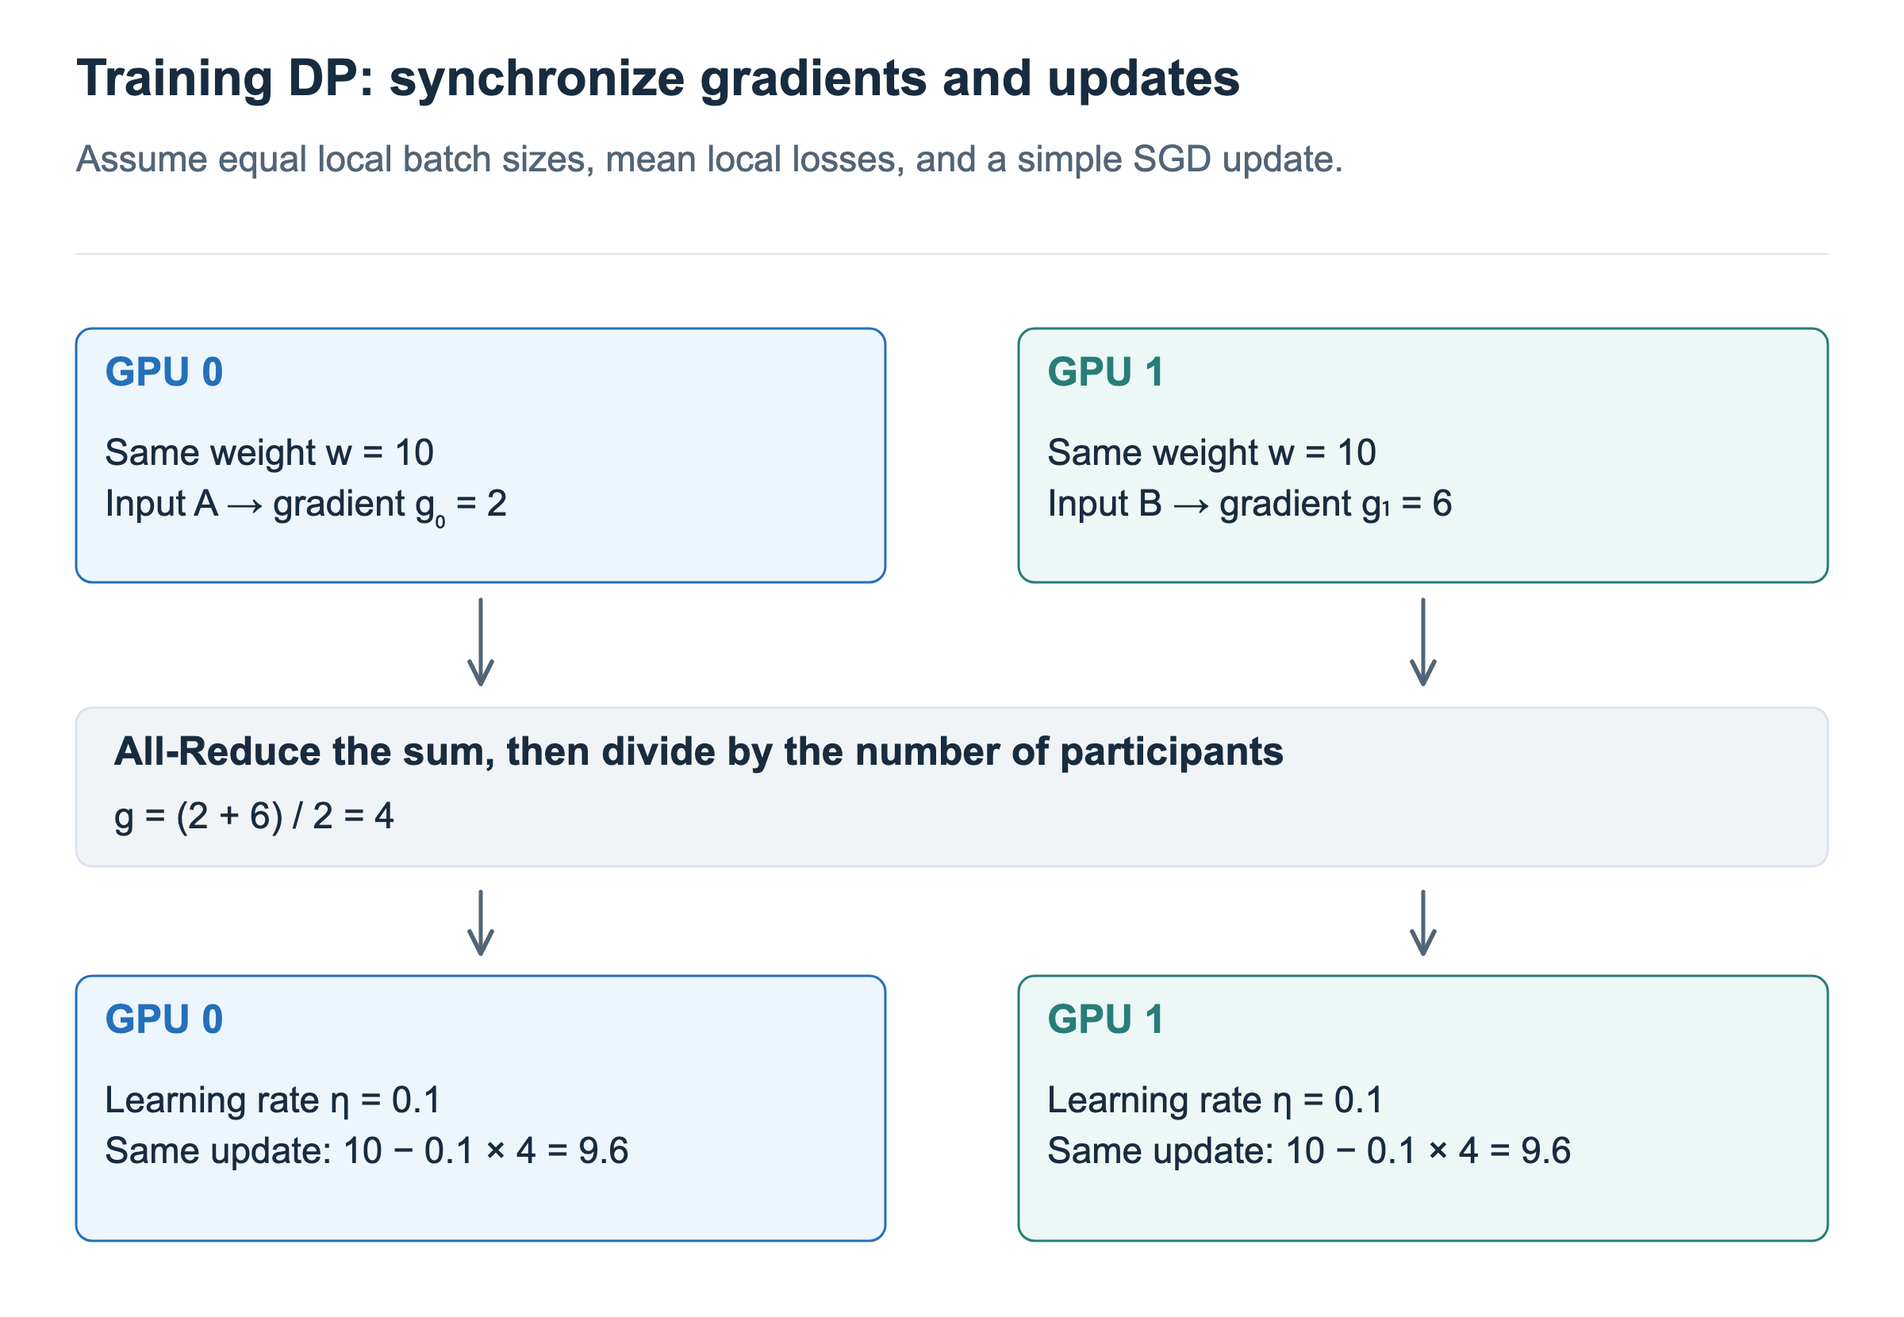
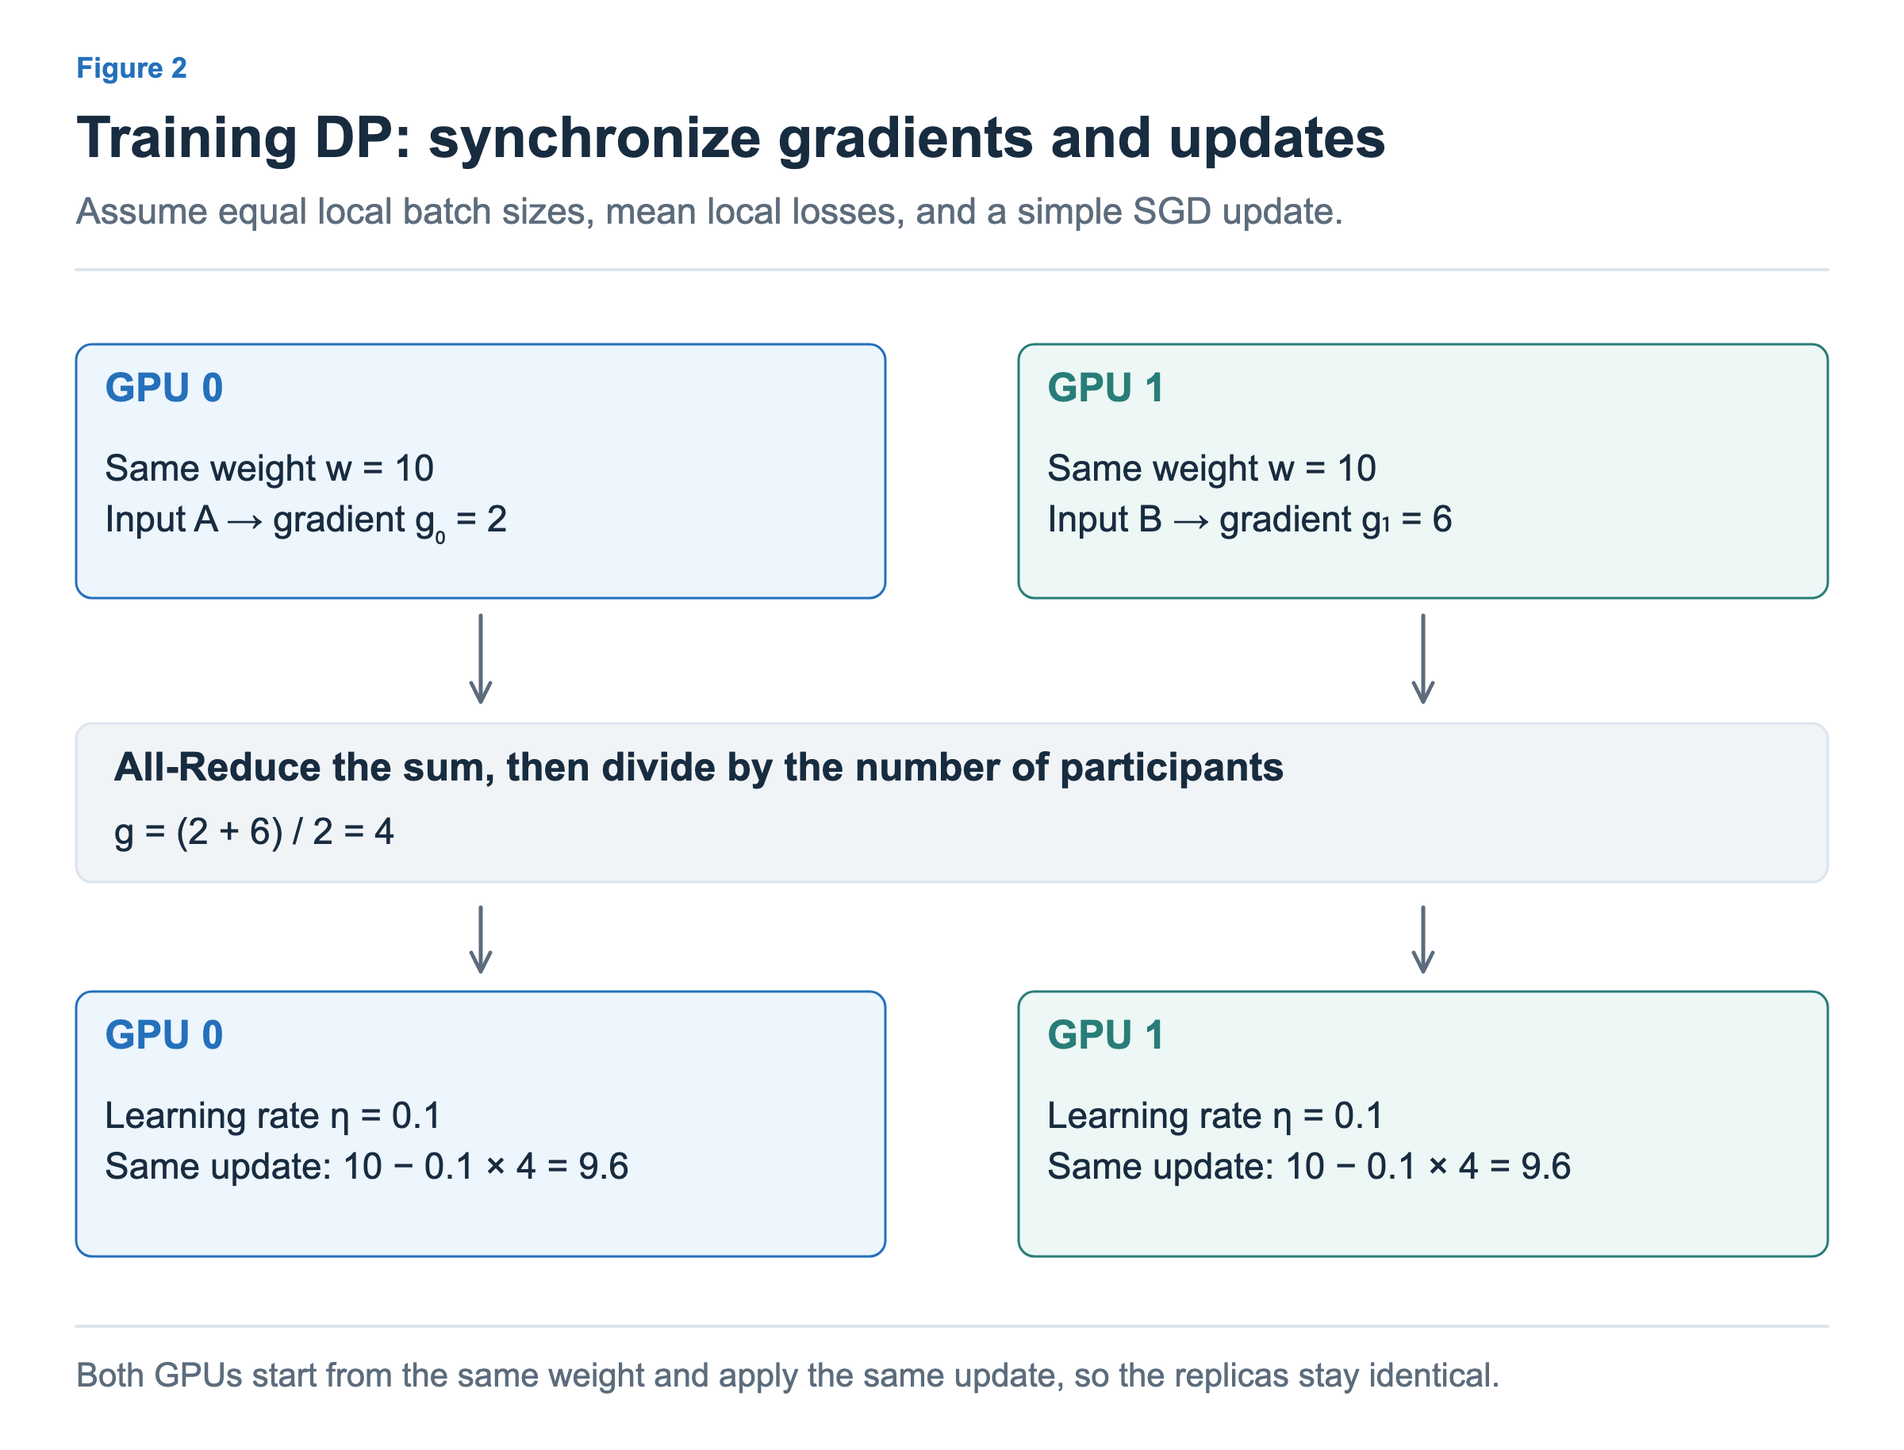
Port data-parallelism figures to the shared visualization module
Figures are regenerated from src/data/figures/data-parallelism with the standard frame
and in-image captions. Figures had no captions; new ko/en captions are drafted from the figures' own notes and the article text (please review).

diff --git a/src/data/figures/data-parallelism/01-replicas.ts b/src/data/figures/data-parallelism/01-replicas.ts
@@ -1,0 +1,65 @@
+import {C,Panel,markerUrl,type FigureSpec,type Locale} from '@llm-systems/viz';
+// Ported from the published SVG with its original geometry; replace parts with shared primitives when editing.
+export default {
+  articleId:"data-parallelism",figureId:"01-replicas",number:"01-replicas",
+  layout:'wide',screens:['desktop'],
+  eyebrow:["그림 1","Figure 1"],
+  title:["DP: 같은 모델, 서로 다른 입력","DP: same model, different inputs"],
+  subtitle:["고정 가중치의 일반적인 dense 모델 추론 예시입니다.","An example of ordinary dense-model inference with fixed weights."],
+  alt:["네 GPU가 모델 W 전체를 각각 보관하며 요청 A부터 D까지 따로 계산합니다.","Each GPU stores full model W and independently processes one of requests A–D."],
+  caption:["나누는 것은 모델이 아니라 입력이므로, 기본 DP만으로는 GPU당 가중치 메모리가 줄지 않습니다.","DP splits inputs, not the model, so basic DP alone does not reduce weight memory per GPU."],
+  sources:[],
+  panels(locale:Locale){
+    const p=new Panel(locale,null,622,1104,[48,196]);
+    p.el('text',{x:48,y:212,fill:C.ink,"font-size":26,"font-weight":700,"text-anchor":"start"},["같은 모델 W를 네 벌 보관","Four copies of the same model W"]);
+    p.el("rect",{x:48,y:249,width:264,height:125,rx:10,fill:C.blueFill,stroke:C.blue,"stroke-width":1.5});
+    p.el('text',{x:66,y:285,fill:C.blue,"font-size":25,"font-weight":700,"text-anchor":"start"},["요청 A","Request A"]);
+    p.el('text',{x:66,y:335,fill:C.ink,"font-size":23,"font-weight":400,"text-anchor":"start"},"");
+    p.el("path",{d:"M180,386 L180,427",stroke:C.muted,"stroke-width":2.5,fill:"none","marker-end":markerUrl(C.muted)});
+    p.el("rect",{x:48,y:439,width:264,height:178,rx:10,fill:C.blueFill,stroke:C.blue,"stroke-width":1.5});
+    p.el('text',{x:66,y:475,fill:C.blue,"font-size":25,"font-weight":700,"text-anchor":"start"},"GPU 0");
+    p.el('text',{x:66,y:525,fill:C.ink,"font-size":23,"font-weight":400,"text-anchor":"start"},["전체 모델 W","Full model W"]);
+    p.el('text',{x:66,y:557.2,fill:C.ink,"font-size":23,"font-weight":400,"text-anchor":"start"},["자기 요청 계산","Own request"]);
+    p.el("path",{d:"M180,630 L180,673",stroke:C.muted,"stroke-width":2.5,fill:"none","marker-end":markerUrl(C.muted)});
+    p.el("rect",{x:48,y:685,width:264,height:125,rx:10,fill:C.blueFill,stroke:C.blue,"stroke-width":1.5});
+    p.el('text',{x:66,y:721,fill:C.blue,"font-size":25,"font-weight":700,"text-anchor":"start"},["결과 A","Result A"]);
+    p.el('text',{x:66,y:771,fill:C.ink,"font-size":23,"font-weight":400,"text-anchor":"start"},"");
+    p.el("rect",{x:328,y:249,width:264,height:125,rx:10,fill:C.tealFill,stroke:C.teal,"stroke-width":1.5});
+    p.el('text',{x:346,y:285,fill:C.teal,"font-size":25,"font-weight":700,"text-anchor":"start"},["요청 B","Request B"]);
+    p.el('text',{x:346,y:335,fill:C.ink,"font-size":23,"font-weight":400,"text-anchor":"start"},"");
+    p.el("path",{d:"M460,386 L460,427",stroke:C.muted,"stroke-width":2.5,fill:"none","marker-end":markerUrl(C.muted)});
+    p.el("rect",{x:328,y:439,width:264,height:178,rx:10,fill:C.tealFill,stroke:C.teal,"stroke-width":1.5});
+    p.el('text',{x:346,y:475,fill:C.teal,"font-size":25,"font-weight":700,"text-anchor":"start"},"GPU 1");
+    p.el('text',{x:346,y:525,fill:C.ink,"font-size":23,"font-weight":400,"text-anchor":"start"},["전체 모델 W","Full model W"]);
+    p.el('text',{x:346,y:557.2,fill:C.ink,"font-size":23,"font-weight":400,"text-anchor":"start"},["자기 요청 계산","Own request"]);
+    p.el("path",{d:"M460,630 L460,673",stroke:C.muted,"stroke-width":2.5,fill:"none","marker-end":markerUrl(C.muted)});
+    p.el("rect",{x:328,y:685,width:264,height:125,rx:10,fill:C.tealFill,stroke:C.teal,"stroke-width":1.5});
+    p.el('text',{x:346,y:721,fill:C.teal,"font-size":25,"font-weight":700,"text-anchor":"start"},["결과 B","Result B"]);
+    p.el('text',{x:346,y:771,fill:C.ink,"font-size":23,"font-weight":400,"text-anchor":"start"},"");
+    p.el("rect",{x:608,y:249,width:264,height:125,rx:10,fill:C.purpleFill,stroke:C.purple,"stroke-width":1.5});
+    p.el('text',{x:626,y:285,fill:C.purple,"font-size":25,"font-weight":700,"text-anchor":"start"},["요청 C","Request C"]);
+    p.el('text',{x:626,y:335,fill:C.ink,"font-size":23,"font-weight":400,"text-anchor":"start"},"");
+    p.el("path",{d:"M740,386 L740,427",stroke:C.muted,"stroke-width":2.5,fill:"none","marker-end":markerUrl(C.muted)});
+    p.el("rect",{x:608,y:439,width:264,height:178,rx:10,fill:C.purpleFill,stroke:C.purple,"stroke-width":1.5});
+    p.el('text',{x:626,y:475,fill:C.purple,"font-size":25,"font-weight":700,"text-anchor":"start"},"GPU 2");
+    p.el('text',{x:626,y:525,fill:C.ink,"font-size":23,"font-weight":400,"text-anchor":"start"},["전체 모델 W","Full model W"]);
+    p.el('text',{x:626,y:557.2,fill:C.ink,"font-size":23,"font-weight":400,"text-anchor":"start"},["자기 요청 계산","Own request"]);
+    p.el("path",{d:"M740,630 L740,673",stroke:C.muted,"stroke-width":2.5,fill:"none","marker-end":markerUrl(C.muted)});
+    p.el("rect",{x:608,y:685,width:264,height:125,rx:10,fill:C.purpleFill,stroke:C.purple,"stroke-width":1.5});
+    p.el('text',{x:626,y:721,fill:C.purple,"font-size":25,"font-weight":700,"text-anchor":"start"},["결과 C","Result C"]);
+    p.el('text',{x:626,y:771,fill:C.ink,"font-size":23,"font-weight":400,"text-anchor":"start"},"");
+    p.el("rect",{x:888,y:249,width:264,height:125,rx:10,fill:C.orangeFill,stroke:C.orange,"stroke-width":1.5});
+    p.el('text',{x:906,y:285,fill:C.orange,"font-size":25,"font-weight":700,"text-anchor":"start"},["요청 D","Request D"]);
+    p.el('text',{x:906,y:335,fill:C.ink,"font-size":23,"font-weight":400,"text-anchor":"start"},"");
+    p.el("path",{d:"M1020,386 L1020,427",stroke:C.muted,"stroke-width":2.5,fill:"none","marker-end":markerUrl(C.muted)});
+    p.el("rect",{x:888,y:439,width:264,height:178,rx:10,fill:C.orangeFill,stroke:C.orange,"stroke-width":1.5});
+    p.el('text',{x:906,y:475,fill:C.orange,"font-size":25,"font-weight":700,"text-anchor":"start"},"GPU 3");
+    p.el('text',{x:906,y:525,fill:C.ink,"font-size":23,"font-weight":400,"text-anchor":"start"},["전체 모델 W","Full model W"]);
+    p.el('text',{x:906,y:557.2,fill:C.ink,"font-size":23,"font-weight":400,"text-anchor":"start"},["자기 요청 계산","Own request"]);
+    p.el("path",{d:"M1020,630 L1020,673",stroke:C.muted,"stroke-width":2.5,fill:"none","marker-end":markerUrl(C.muted)});
+    p.el("rect",{x:888,y:685,width:264,height:125,rx:10,fill:C.orangeFill,stroke:C.orange,"stroke-width":1.5});
+    p.el('text',{x:906,y:721,fill:C.orange,"font-size":25,"font-weight":700,"text-anchor":"start"},["결과 D","Result D"]);
+    p.el('text',{x:906,y:771,fill:C.ink,"font-size":23,"font-weight":400,"text-anchor":"start"},"");
+    return [p];
+  },
+} satisfies FigureSpec;

diff --git a/src/data/figures/data-parallelism/03-throughput.ts b/src/data/figures/data-parallelism/03-throughput.ts
@@ -1,0 +1,60 @@
+import {C,Panel,type FigureSpec,type Locale} from '@llm-systems/viz';
+// Ported from the published SVG with its original geometry; replace parts with shared primitives when editing.
+export default {
+  articleId:"data-parallelism",figureId:"03-throughput",number:"03-throughput",
+  layout:'wide',screens:['desktop'],
+  eyebrow:["그림 3","Figure 3"],
+  title:["실행 시간과 처리량을 구별하기","Distinguish execution time from throughput"],
+  subtitle:["네 요청이 동시에 도착하고, 요청 간 간섭과 분산 비용은 생략한 일정입니다.","All four requests arrive together; interference and dispatch costs are omitted."],
+  alt:["GPU 하나는 네 요청을 네 슬롯에 처리하고 두 GPU는 두 슬롯에 처리하지만 개별 요청의 실행은 한 슬롯입니다.","One GPU finishes in four slots; two GPUs finish in two, while each request executes for one slot."],
+  caption:["칸은 설명용 시간 단위이며 실제 실행 시간이 아닙니다.","Slots are illustrative time units, not actual execution times."],
+  sources:[],
+  panels(locale:Locale){
+    const p=new Panel(locale,null,574,1104,[48,196]);
+    p.el('text',{x:48,y:211,fill:C.ink,"font-size":25,"font-weight":700,"text-anchor":"start"},["한 요청의 실행에 1칸이 걸린다고 가정","Assume each request takes one time slot"]);
+    p.el("rect",{x:48,y:254,width:214.8,height:58,rx:10,fill:C.indigoFill,stroke:C.line,"stroke-width":1.5});
+    p.el('text',{x:62,y:291,fill:C.ink,"font-size":23,"font-weight":700,"text-anchor":"start"},["배치","Deployment"]);
+    p.el("rect",{x:268.8,y:254,width:214.8,height:58,rx:10,fill:C.indigoFill,stroke:C.line,"stroke-width":1.5});
+    p.el('text',{x:282.8,y:291,fill:C.ink,"font-size":23,"font-weight":700,"text-anchor":"start"},["시간 1","Slot 1"]);
+    p.el("rect",{x:489.6,y:254,width:214.8,height:58,rx:10,fill:C.indigoFill,stroke:C.line,"stroke-width":1.5});
+    p.el('text',{x:503.6,y:291,fill:C.ink,"font-size":23,"font-weight":700,"text-anchor":"start"},["시간 2","Slot 2"]);
+    p.el("rect",{x:710.4000000000001,y:254,width:214.8,height:58,rx:10,fill:C.indigoFill,stroke:C.line,"stroke-width":1.5});
+    p.el('text',{x:724.4000000000001,y:291,fill:C.ink,"font-size":23,"font-weight":700,"text-anchor":"start"},["시간 3","Slot 3"]);
+    p.el("rect",{x:931.2,y:254,width:214.8,height:58,rx:10,fill:C.indigoFill,stroke:C.line,"stroke-width":1.5});
+    p.el('text',{x:945.2,y:291,fill:C.ink,"font-size":23,"font-weight":700,"text-anchor":"start"},["시간 4","Slot 4"]);
+    p.el("rect",{x:48,y:320,width:214.8,height:92,rx:10,fill:C.surface,stroke:C.line,"stroke-width":1.5});
+    p.el('text',{x:62,y:354,fill:C.ink,"font-size":22,"font-weight":400,"text-anchor":"start"},"1 GPU");
+    p.el("rect",{x:268.8,y:320,width:214.8,height:92,rx:10,fill:C.blueFill,stroke:C.line,"stroke-width":1.5});
+    p.el('text',{x:282.8,y:354,fill:C.ink,"font-size":22,"font-weight":400,"text-anchor":"start"},"A");
+    p.el("rect",{x:489.6,y:320,width:214.8,height:92,rx:10,fill:C.tealFill,stroke:C.line,"stroke-width":1.5});
+    p.el('text',{x:503.6,y:354,fill:C.ink,"font-size":22,"font-weight":400,"text-anchor":"start"},"B");
+    p.el("rect",{x:710.4000000000001,y:320,width:214.8,height:92,rx:10,fill:C.purpleFill,stroke:C.line,"stroke-width":1.5});
+    p.el('text',{x:724.4000000000001,y:354,fill:C.ink,"font-size":22,"font-weight":400,"text-anchor":"start"},"C");
+    p.el("rect",{x:931.2,y:320,width:214.8,height:92,rx:10,fill:C.orangeFill,stroke:C.line,"stroke-width":1.5});
+    p.el('text',{x:945.2,y:354,fill:C.ink,"font-size":22,"font-weight":400,"text-anchor":"start"},"D");
+    p.el("rect",{x:48,y:420,width:214.8,height:92,rx:10,fill:C.surface,stroke:C.line,"stroke-width":1.5});
+    p.el('text',{x:62,y:454,fill:C.ink,"font-size":22,"font-weight":400,"text-anchor":"start"},"2 GPUs · GPU 0");
+    p.el("rect",{x:268.8,y:420,width:214.8,height:92,rx:10,fill:C.blueFill,stroke:C.line,"stroke-width":1.5});
+    p.el('text',{x:282.8,y:454,fill:C.ink,"font-size":22,"font-weight":400,"text-anchor":"start"},"A");
+    p.el("rect",{x:489.6,y:420,width:214.8,height:92,rx:10,fill:C.tealFill,stroke:C.line,"stroke-width":1.5});
+    p.el('text',{x:503.6,y:454,fill:C.ink,"font-size":22,"font-weight":400,"text-anchor":"start"},"C");
+    p.el("rect",{x:710.4000000000001,y:420,width:214.8,height:92,rx:10,fill:C.purpleFill,stroke:C.line,"stroke-width":1.5});
+    p.el('text',{x:724.4000000000001,y:454,fill:C.ink,"font-size":22,"font-weight":400,"text-anchor":"start"},"—");
+    p.el("rect",{x:931.2,y:420,width:214.8,height:92,rx:10,fill:C.orangeFill,stroke:C.line,"stroke-width":1.5});
+    p.el('text',{x:945.2,y:454,fill:C.ink,"font-size":22,"font-weight":400,"text-anchor":"start"},"—");
+    p.el("rect",{x:48,y:520,width:214.8,height:92,rx:10,fill:C.surface,stroke:C.line,"stroke-width":1.5});
+    p.el('text',{x:62,y:554,fill:C.ink,"font-size":22,"font-weight":400,"text-anchor":"start"},"2 GPUs · GPU 1");
+    p.el("rect",{x:268.8,y:520,width:214.8,height:92,rx:10,fill:C.blueFill,stroke:C.line,"stroke-width":1.5});
+    p.el('text',{x:282.8,y:554,fill:C.ink,"font-size":22,"font-weight":400,"text-anchor":"start"},"B");
+    p.el("rect",{x:489.6,y:520,width:214.8,height:92,rx:10,fill:C.tealFill,stroke:C.line,"stroke-width":1.5});
+    p.el('text',{x:503.6,y:554,fill:C.ink,"font-size":22,"font-weight":400,"text-anchor":"start"},"D");
+    p.el("rect",{x:710.4000000000001,y:520,width:214.8,height:92,rx:10,fill:C.purpleFill,stroke:C.line,"stroke-width":1.5});
+    p.el('text',{x:724.4000000000001,y:554,fill:C.ink,"font-size":22,"font-weight":400,"text-anchor":"start"},"—");
+    p.el("rect",{x:931.2,y:520,width:214.8,height:92,rx:10,fill:C.orangeFill,stroke:C.line,"stroke-width":1.5});
+    p.el('text',{x:945.2,y:554,fill:C.ink,"font-size":22,"font-weight":400,"text-anchor":"start"},"—");
+    p.el("rect",{x:48,y:662,width:1104,height:100,rx:10,fill:C.grayFill,stroke:C.line,"stroke-width":1.5});
+    p.el('text',{x:72,y:698,fill:C.ink,"font-size":25,"font-weight":700,"text-anchor":"start"},["전체 네 요청의 완료: 4칸 → 2칸","Completion of all four requests: 4 slots → 2 slots"]);
+    p.el('text',{x:72,y:738,fill:C.ink,"font-size":23,"font-weight":400,"text-anchor":"start"},["요청 하나의 실행은 여전히 1칸입니다. 대기 시간은 줄어들 수 있습니다.","Each request still executes for one slot; time spent in the queue can shrink."]);
+    return [p];
+  },
+} satisfies FigureSpec;

diff --git a/src/data/figures/data-parallelism/02-gradients.ts b/src/data/figures/data-parallelism/02-gradients.ts
@@ -1,0 +1,39 @@
+import {C,Panel,markerUrl,type FigureSpec,type Locale} from '@llm-systems/viz';
+// Ported from the published SVG with its original geometry; replace parts with shared primitives when editing.
+export default {
+  articleId:"data-parallelism",figureId:"02-gradients",number:"02-gradients",
+  layout:'wide',screens:['desktop'],
+  eyebrow:["그림 2","Figure 2"],
+  title:["학습 DP: 기울기를 맞추고 같은 갱신","Training DP: synchronize gradients and updates"],
+  subtitle:["동일 크기의 입력 묶음, 묶음별 평균 손실, 단순 SGD 갱신을 가정합니다.","Assume equal local batch sizes, mean local losses, and a simple SGD update."],
+  alt:["기울기 2와 6을 평균내어 4를 얻고 두 GPU 모두 가중치 10을 9.6으로 갱신합니다.","Average gradients 2 and 6 to get 4; both GPUs update weight 10 to 9.6."],
+  caption:["두 GPU가 같은 가중치에서 같은 값으로 갱신하므로, 갱신 뒤에도 복제본이 일치합니다.","Both GPUs start from the same weight and apply the same update, so the replicas stay identical."],
+  sources:[],
+  panels(locale:Locale){
+    const p=new Panel(locale,null,594,1104,[48,196]);
+    p.el("rect",{x:48,y:207,width:510,height:160,rx:10,fill:C.blueFill,stroke:C.blue,"stroke-width":1.5});
+    p.el('text',{x:66,y:243,fill:C.blue,"font-size":25,"font-weight":700,"text-anchor":"start"},"GPU 0");
+    p.el('text',{x:66,y:293,fill:C.ink,"font-size":23,"font-weight":400,"text-anchor":"start"},["같은 가중치 w = 10","Same weight w = 10"]);
+    p.el('text',{x:66,y:325.2,fill:C.ink,"font-size":23,"font-weight":400,"text-anchor":"start"},["입력 A → 기울기 g₀ = 2","Input A → gradient g₀ = 2"]);
+    p.el("rect",{x:642,y:207,width:510,height:160,rx:10,fill:C.tealFill,stroke:C.teal,"stroke-width":1.5});
+    p.el('text',{x:660,y:243,fill:C.teal,"font-size":25,"font-weight":700,"text-anchor":"start"},"GPU 1");
+    p.el('text',{x:660,y:293,fill:C.ink,"font-size":23,"font-weight":400,"text-anchor":"start"},["같은 가중치 w = 10","Same weight w = 10"]);
+    p.el('text',{x:660,y:325.2,fill:C.ink,"font-size":23,"font-weight":400,"text-anchor":"start"},["입력 B → 기울기 g₁ = 6","Input B → gradient g₁ = 6"]);
+    p.el("path",{d:"M303,378 L303,431",stroke:C.muted,"stroke-width":2.5,fill:"none","marker-end":markerUrl(C.muted)});
+    p.el("path",{d:"M897,378 L897,431",stroke:C.muted,"stroke-width":2.5,fill:"none","marker-end":markerUrl(C.muted)});
+    p.el("rect",{x:48,y:446,width:1104,height:100,rx:10,fill:C.grayFill,stroke:C.line,"stroke-width":1.5});
+    p.el('text',{x:72,y:482,fill:C.ink,"font-size":25,"font-weight":700,"text-anchor":"start"},["All-Reduce로 합산한 뒤 참여자 수로 나누기","All-Reduce the sum, then divide by the number of participants"]);
+    p.el('text',{x:72,y:522,fill:C.ink,"font-size":23,"font-weight":400,"text-anchor":"start"},"g = (2 + 6) / 2 = 4");
+    p.el("path",{d:"M303,562 L303,601",stroke:C.muted,"stroke-width":2.5,fill:"none","marker-end":markerUrl(C.muted)});
+    p.el("rect",{x:48,y:615,width:510,height:167,rx:10,fill:C.blueFill,stroke:C.blue,"stroke-width":1.5});
+    p.el('text',{x:66,y:651,fill:C.blue,"font-size":25,"font-weight":700,"text-anchor":"start"},"GPU 0");
+    p.el('text',{x:66,y:701,fill:C.ink,"font-size":23,"font-weight":400,"text-anchor":"start"},["학습률 η = 0.1","Learning rate η = 0.1"]);
+    p.el('text',{x:66,y:733.2,fill:C.ink,"font-size":23,"font-weight":400,"text-anchor":"start"},["같은 갱신: 10 − 0.1 × 4 = 9.6","Same update: 10 − 0.1 × 4 = 9.6"]);
+    p.el("path",{d:"M897,562 L897,601",stroke:C.muted,"stroke-width":2.5,fill:"none","marker-end":markerUrl(C.muted)});
+    p.el("rect",{x:642,y:615,width:510,height:167,rx:10,fill:C.tealFill,stroke:C.teal,"stroke-width":1.5});
+    p.el('text',{x:660,y:651,fill:C.teal,"font-size":25,"font-weight":700,"text-anchor":"start"},"GPU 1");
+    p.el('text',{x:660,y:701,fill:C.ink,"font-size":23,"font-weight":400,"text-anchor":"start"},["학습률 η = 0.1","Learning rate η = 0.1"]);
+    p.el('text',{x:660,y:733.2,fill:C.ink,"font-size":23,"font-weight":400,"text-anchor":"start"},["같은 갱신: 10 − 0.1 × 4 = 9.6","Same update: 10 − 0.1 × 4 = 9.6"]);
+    return [p];
+  },
+} satisfies FigureSpec;
